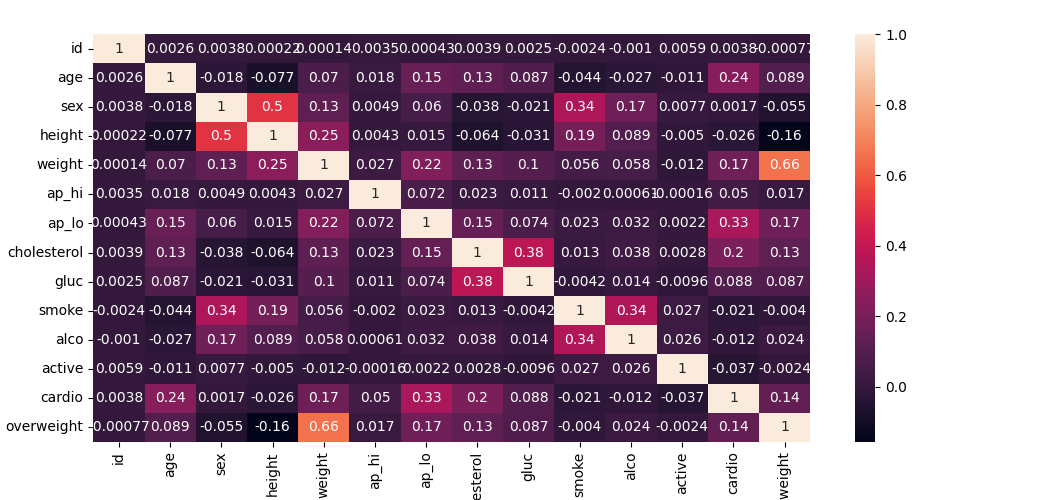
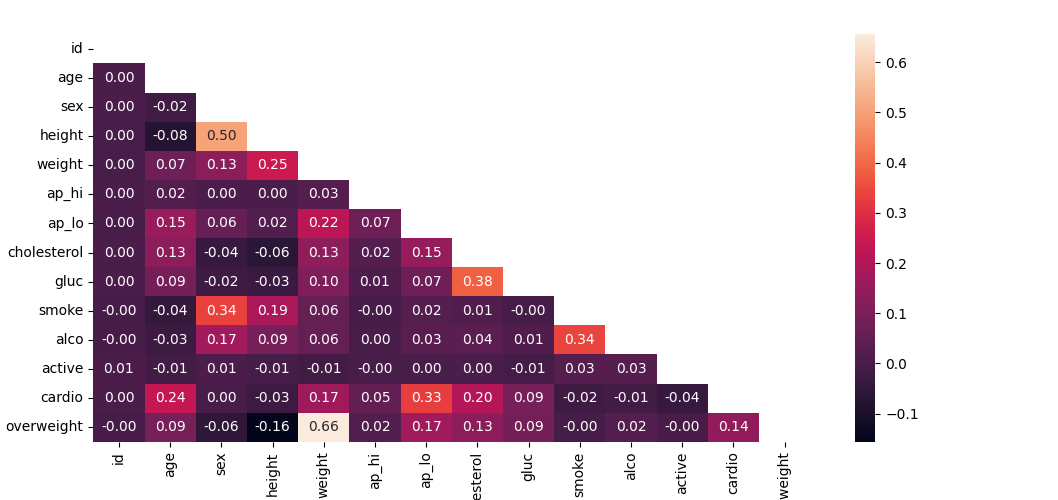
Comm

diff --git a/medical_data_visualizer.py b/medical_data_visualizer.py
@@ -56,13 +56,13 @@ def draw_heat_map():
     corr = df_heat.corr()
     plt.clf()
     # 13
-    mask = corr.mask()
+    mask = mask = np.triu(np.ones_like(corr, dtype=bool))
 
 
 
     # 14
     #fig, ax = sns.heatmap(corr,annot=True)
-    fig = sns.heatmap(corr,annot=True,fmt=".2f")
+    fig = sns.heatmap(corr,mask=mask,annot=True,fmt=".2f")
     # 15
 
 
